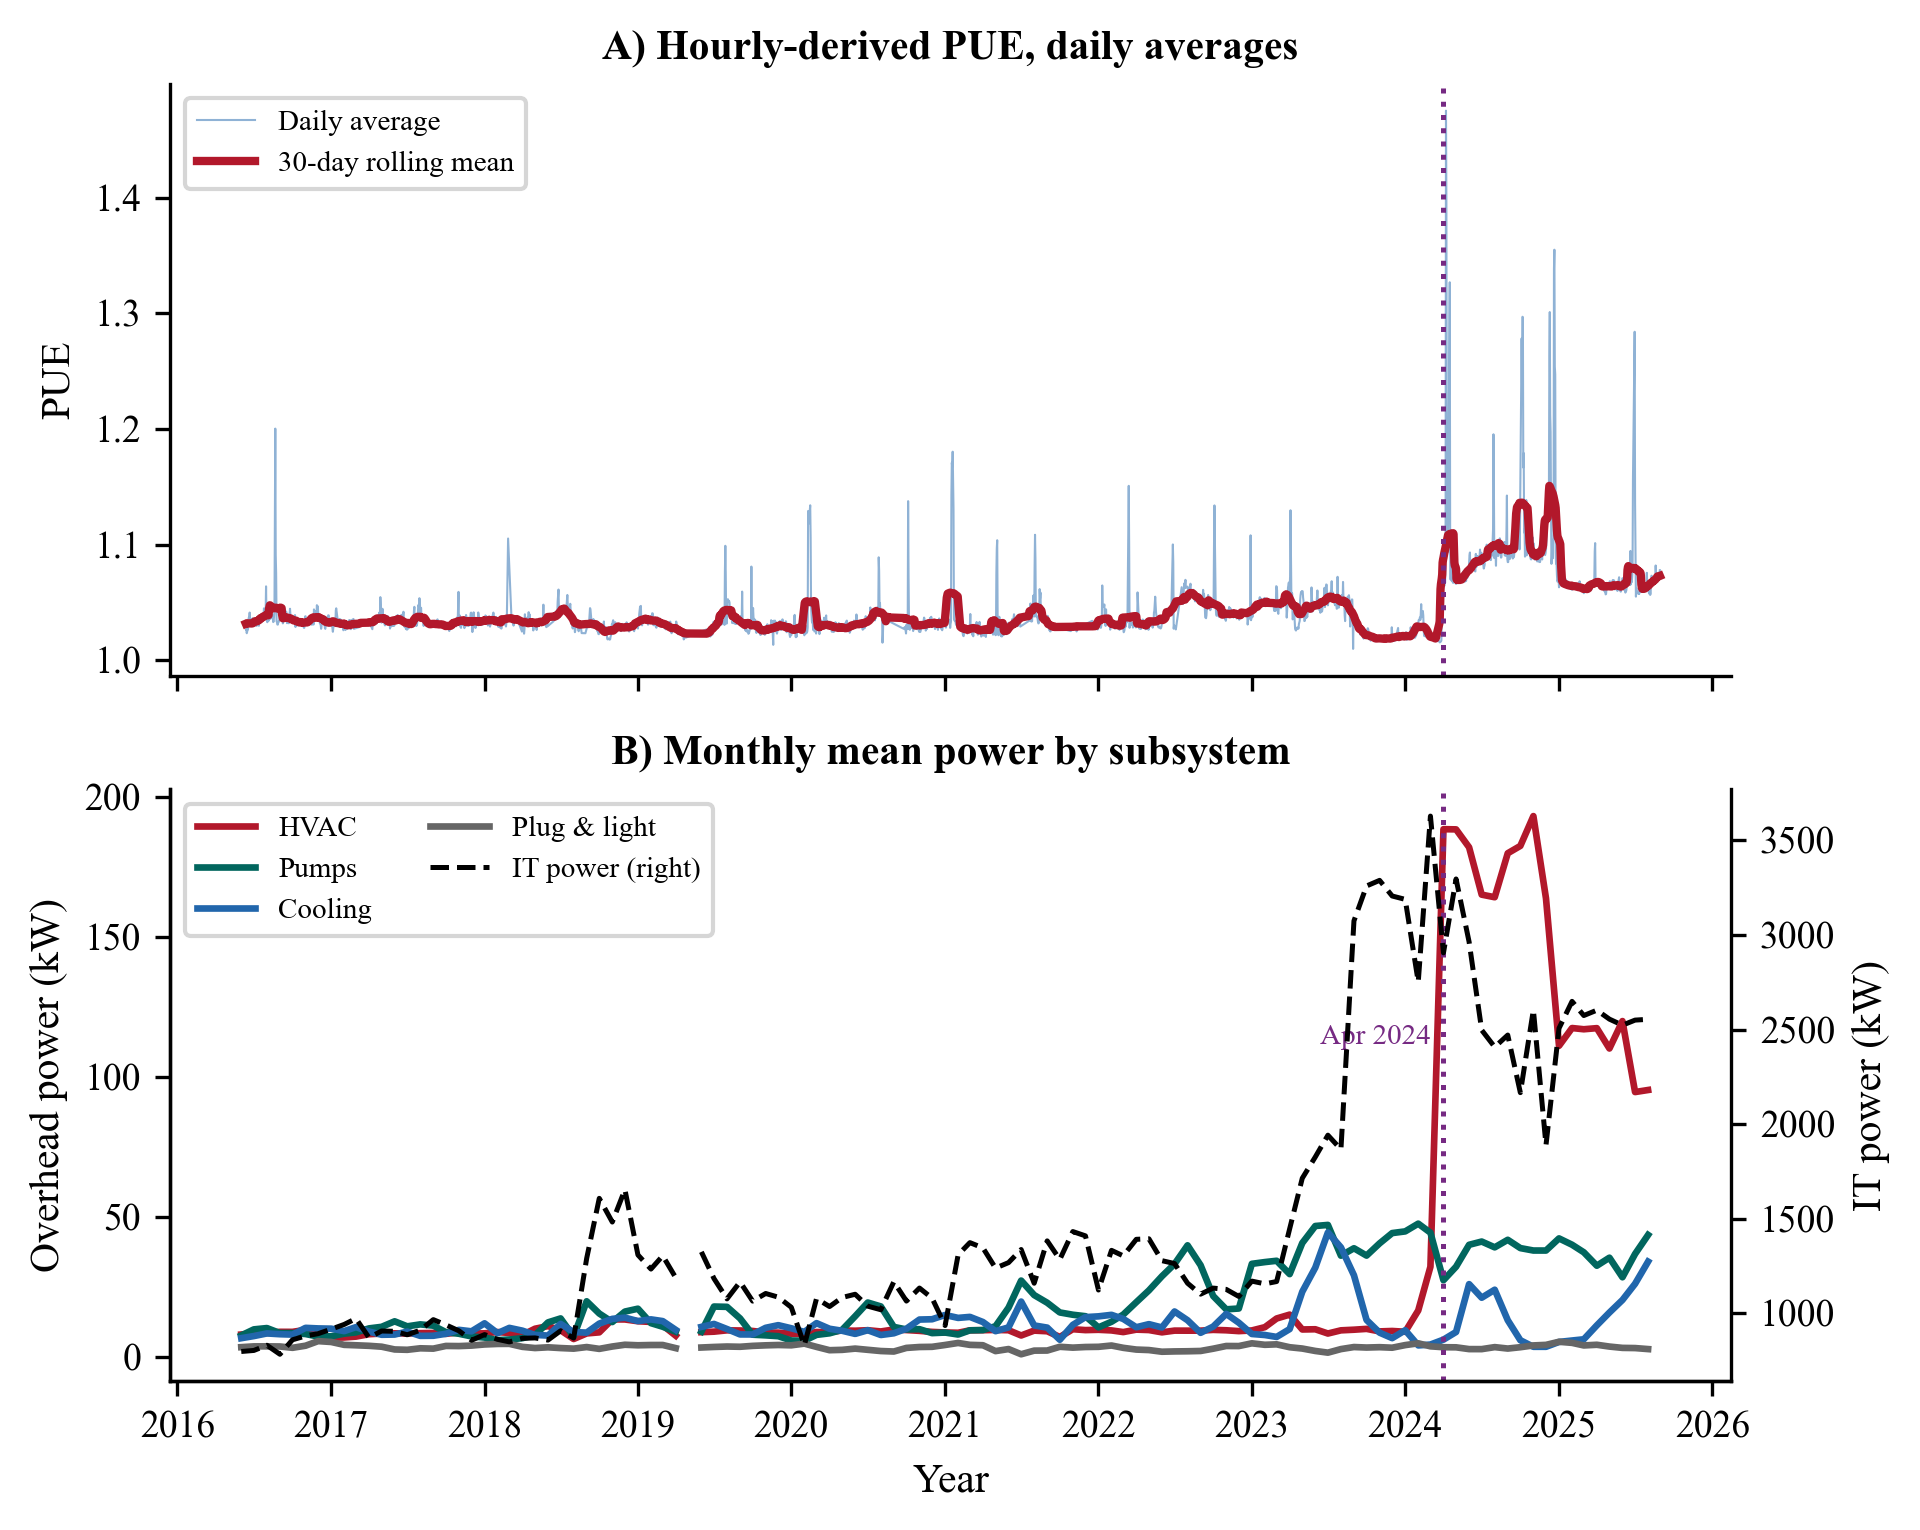
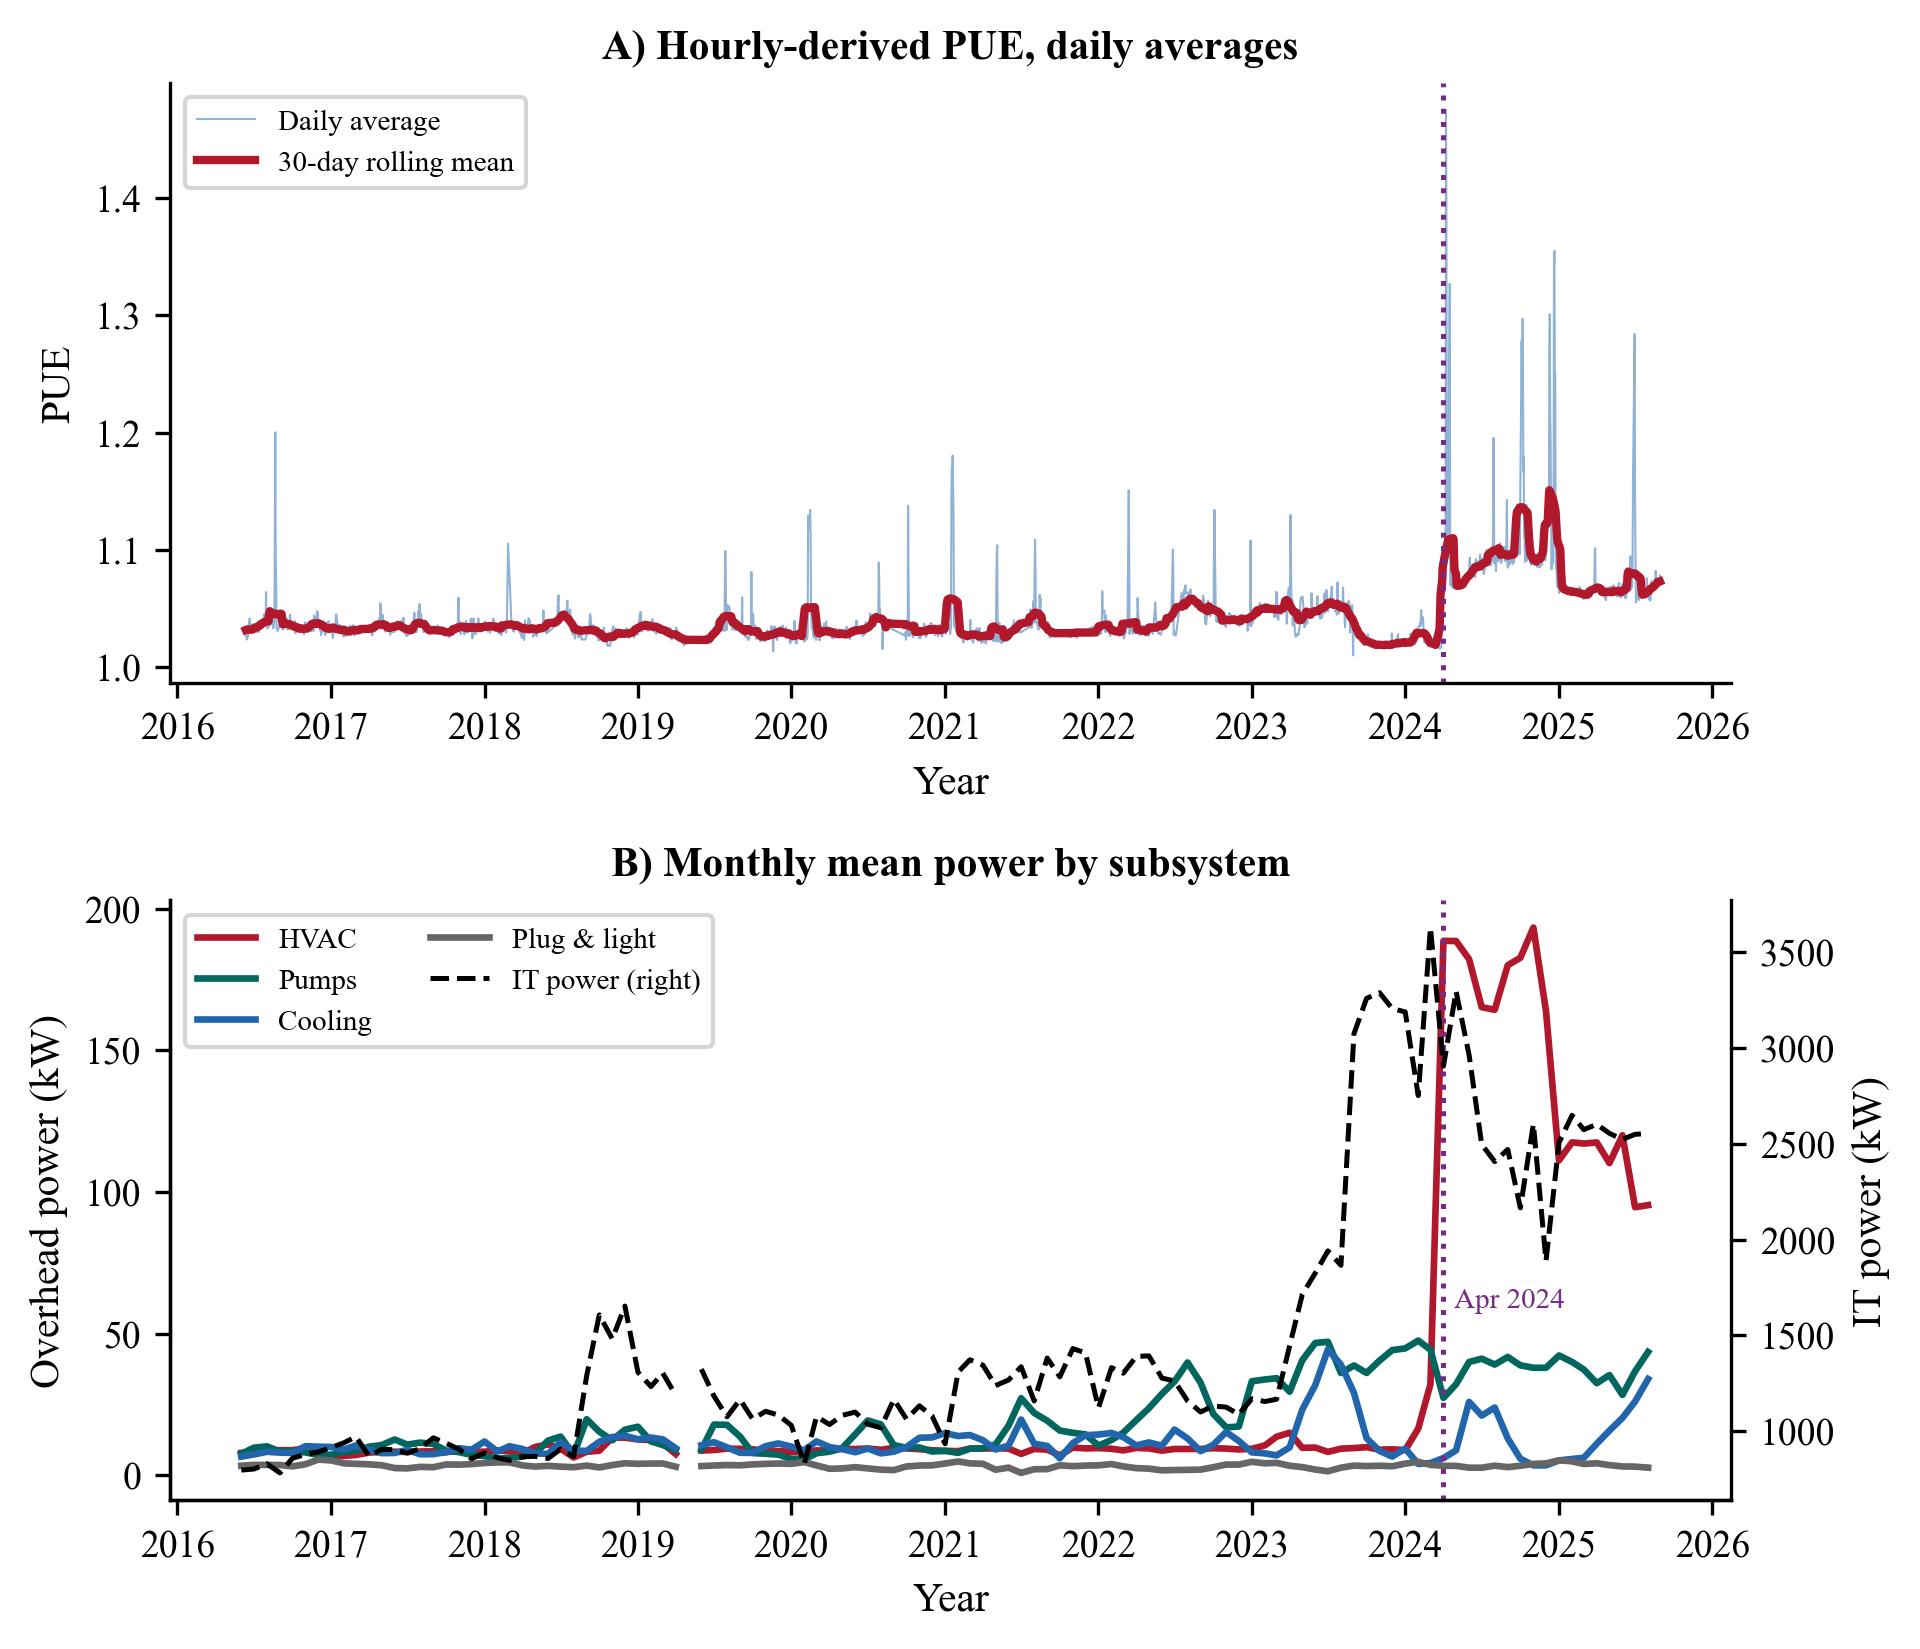
Figure 5: show year labels on panel A; move Apr 2024 label off the marker line

diff --git a/04_generate_figures.py b/04_generate_figures.py
@@ -191,7 +191,7 @@ def fig04_water():
 
 def fig05_pue_and_subsystems(df):
     monthly = pd.read_csv(os.path.join(TABLE_DIR, "monthly_subsystems.csv"), index_col=0, parse_dates=True)
-    fig, (ax1, ax2) = plt.subplots(2, 1, figsize=(6.5, 5.2), sharex=True)
+    fig, (ax1, ax2) = plt.subplots(2, 1, figsize=(6.5, 5.6), sharex=True)
     daily = df["pue"].resample("D").mean().dropna()
     ax1.plot(daily.index, daily.values, lw=0.5, color=BLUE, alpha=0.5, label="Daily average")
     ax1.plot(daily.index, daily.rolling(30, center=True, min_periods=10).mean(), lw=2, color=RED,
@@ -214,11 +214,13 @@ def fig05_pue_and_subsystems(df):
     ax2.set_title("B) Monthly mean power by subsystem", fontweight="bold", fontsize=10)
     for a in (ax1, ax2):
         a.axvline(pd.Timestamp("2024-04-01"), color=PURPLE, ls=":", lw=1.2)
-    ax2.text(pd.Timestamp("2024-03-01"), ax2.get_ylim()[1] * 0.55, "Apr 2024", fontsize=7, color=PURPLE,
-             ha="right")
-    ax2.xaxis.set_major_formatter(mdates.DateFormatter("%Y"))
-    ax2.xaxis.set_major_locator(mdates.YearLocator())
-    ax2.set_xlabel("Year")
+    ax2.text(pd.Timestamp("2024-04-25"), 62, "Apr 2024", fontsize=7, color=PURPLE, ha="left", va="center",
+             bbox=dict(boxstyle="round,pad=0.15", fc="white", ec="none", alpha=0.9), zorder=5)
+    for a in (ax1, ax2):
+        a.xaxis.set_major_formatter(mdates.DateFormatter("%Y"))
+        a.xaxis.set_major_locator(mdates.YearLocator())
+        a.set_xlabel("Year")
+    ax1.tick_params(axis="x", labelbottom=True)
     fig.tight_layout()
     save_fig(fig, "fig05_pue_timeseries.png")
 
